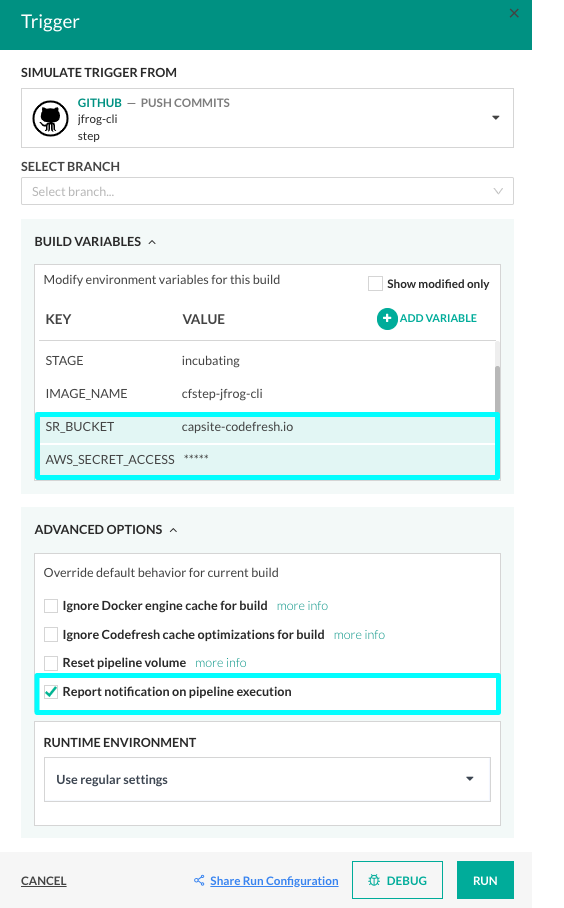
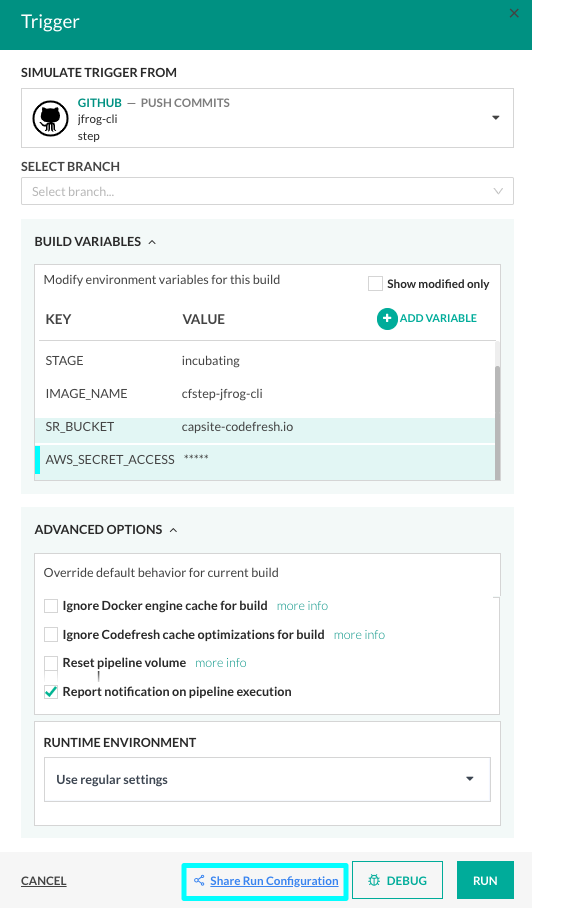
January 2024 release notes (#908)
* Create 2024-01-30-jan-release-notes.md

* Update Jan release notes

Added content for features and edited bug descriptions

* Update 2024-01-30-jan-release-notes.md

* Update share-run-configuration.png

* Update 2024-01-30-jan-release-notes.md

* Add typed step image

Edited content and added image for typed step warning

* Renamed release notes

Changed to earlier date for review in staging

* Update 2024-01-28-jan-release-notes.md

* Update 2024-01-28-jan-release-notes.md

* Add restart for failed steps

* Update 2024-01-28-jan-release-notes.md

* Update release notes

Add tags and sync timeout

* Add empty variables description

* Update release notes

Fixed image size and updated bug fix descriptions

* Update 2024-01-28-jan-release-notes.md

* Update 2024-01-28-jan-release-notes.md

* Update 2024-01-28-jan-release-notes.md

* Update 2024-01-28-jan-release-notes.md

Fixed empty variables enitites and removed scenarios!

* Minor edits

* Fixes

diff --git a/_posts/2024-01-28-jan-release-notes.md b/_posts/2024-01-28-jan-release-notes.md
@@ -1,0 +1,173 @@
+---
+title: "Release Notes: January 2024"
+description: "Release Notes for Codefresh Pipelines and GitOps"
+---
+
+## Features & enhancements
+
+### Pipelines: Empty variables 
+We are happy to announce a highly-requested feature: the ability to use _empty variables_ in Codefresh pipelines. Now, you can add variables without any values to any entity in Codefresh, whether it's a project, pipeline, or trigger. The enhancement unlocks a myriad of possibilities that were previously unavailable. 
+
+{% include 
+	image.html 
+	lightbox="true" 
+	file="/images/whats-new/jan24/rel-notes-jan-24-empty-variables.png" 
+	url="/images/whats-new/jan24/rel-notes-jan-24-empty-variables.png" 
+	alt="Empty variables in a Codefresh project" 
+	caption="Empty variables in a Codefresh project"
+  max-width="60%" 
+%}
+
+
+Remember that encryption is not supported for empty variables. The priority for variable overrides remains unchanged. 
+
+For details, see [User-defined variables in pipelines]({{site.baseurl}}/docs/pipelines/variables/#user-defined-variables).
+
+### Pipelines: Share build run settings
+Our newest enhancement to pipeline builds is designed to increase collaboration and productivity! How? Instead of redefining build settings manually, you can effortlessly share pipeline build settings with colleagues who have access to the same account.
+
+**How does it work?**  
+By sharing build settings, you enable colleagues to pre-populate build configurations without the need for redundant manual input. This feature is useful for various scenarios, whether it's for testing automation integration with third-party tools or triggering pipelines in specific situations.
+
+**Customizing build settings**  
+You can override any existing setting - simulate a different trigger, select a different branch, modify existing or add new build variables, and even modify the build behavior.
+
+With a click of the **Share build settings** button, Codefresh generates a unique URL. The URL includes modified and new settings as query parameters. Encrypted variables are excluded to ensure data protection. 
+
+   {% include 
+	image.html 
+	lightbox="true" 
+	file="/images/whats-new/jan24/rel-notes-jan-24-share-run-configuration.png" 
+	url="/images/whats-new/jan24/rel-notes-jan-24-share-run-configuration.png" 
+	alt="Share build settings" 
+	caption="Share build settings"
+  max-width="40%" 
+%}
+
+For details, see [Share build run settings]({{site.baseurl}}/docs/pipelines/run-pipeline/#share-build-run-settings).
+
+### Pipelines: Restart from failed step 
+At Codefresh, we highly value your feedback and are committed to continually enhancing your experience. In response to your feedback, we introduced the ability to configure the default restart behavior for failed steps in a pipeline at the account level. 
+
+   {% include 
+	image.html 
+	lightbox="true" 
+	file="/images/whats-new/jan24/rel-notes-jan-24-restart-failed-step.png" 
+	url="/images/whats-new/jan24/rel-notes-jan-24-restart-failed-step.png" 
+	alt="Restart from failed step in Pipeline Settings" 
+	caption="Restart from failed step in Pipeline Settings"
+  max-width="50%" 
+%}
+
+When enabled (the default), the user can restart the pipeline directly from the failed step. Otherwise, users can only restart the pipeline from the beginning.  
+By default, individual pipelines are configured to inherit the account setting.  
+Note that this does not impact existing pipelines.
+
+Being able to configure the restart behavior for failed steps centrally simplifies management and ensures consistency across pipelines, without the need for individual adjustments.   
+Imagine a scenario where you’re onboarding a large team of developers. You can disable failed-step restart for the account, and have the pipelines use the account-level setting, saving valuable time and promoting a consistent experience.  
+
+You can always change the behavior at any time based on evolving requirements. And users have the flexibility to override the account-level behavior for individual pipelines based on specific needs.
+
+For details, see [Restarting from failed steps]({{site.baseurl}}/docs/pipelines/configuration/pipeline-settings/#restarting-from-failed-steps).
+
+### Pipelines: Add tags during pipeline creation
+With this update, you can effortlessly add tags when you create a pipeline, further streamlining the pipeline creation process. Add tags as you usually do, and they are instantly available in both the General Settings and the Permissions panel.
+
+   {% include 
+	image.html 
+	lightbox="true" 
+	file="/images/whats-new/jan24/rel-notes-jan-24-tags-in-create-pipeline.png" 
+	url="/images/whats-new/jan24/rel-notes-jan-24-tags-in-create-pipeline.png" 
+	alt="Add tags when creating pipeline" 
+	caption="Add tags when creating pipeline"
+  max-width="40%" 
+%}
+
+
+### Pipelines: Explicit versions for typed steps
+As you're aware, Codefresh is continually enhancing our typed step library in the Marketplace.
+
+When typed steps in pipelines lack a specified version, Codefresh automatically associates them with the latest version of the step. To avoid potential issues with breaking changes in typed steps, we now provide a warning if there are steps in your pipelines without an explicit version number.
+
+{% include 
+	image.html 
+	lightbox="true" 
+	file="/images/whats-new/jan24/rel-notes-jan-24-typed-step-warning.png" 
+	url="/images/whats-new/jan24/rel-notes-jan-24-typed-step-warning.png" 
+	alt="Warning for typed steps without version numbers" 
+	caption="Warning for typed steps without version numbers"
+  max-width="60%" 
+%}
+
+For details, see [Versioning for typed steps]({{site.baseurl}}/docs/pipelines/steps/#versioning-for-typed-steps).
+
+
+
+### GitOps: Tailored sync timeouts for Argo CD applications
+
+Tailor the timeout thresholds for sync operations for different applications, and receive instant alerts when the sync duration exceeds the threshold defined.  
+Instead of waiting indefinitely for syncs to complete and then navigating through the GitOps Apps dashboard, Codefresh provides you with timely warnings to proactively investigate and resolve sync issues.
+
+Just include an annotation in the application's YAML, and either retain the default timeout of 30 minutes (also Argo CD's default for sync operations), or change it as needed.  
+Codefresh will display a warning in the **Warnings/Errors** panel for the app when the sync operation exceeds the timeout.
+
+   {% include 
+	image.html 
+	lightbox="true" 
+	file="/images/whats-new/jan24/rel-notes-jan-24-sync-timeout.png" 
+	url="/images/whats-new/jan24/rel-notes-jan-24-sync-timeout.png" 
+	alt="Sync timeout warning for Argo CD applications" 
+	caption="Sync timeout warning for Argo CD applications"
+  max-width="70%" 
+%}
+
+For details, see [Configure sync-timeout for Argo CD applications]({{site.baseurl}}/docs/deployments/gitops/manage-application/#configure-sync-timeout-for-argo-cd-applications).
+
+### GitOps: View/download logs for GitOps Runtime components
+We are glad to announce that you can now view and download logs for individual GitOps Runtime components!
+Previously available for legacy CLI Runtimes, this functionality is now back for Helm GitOps Runtimes, with online viewing in our smart terminal and offline downloads as you need.
+
+As a reminder, here's where you can find the **View logs** option:
+
+   {% include 
+	image.html 
+	lightbox="true" 
+	file="/images/whats-new/jan24/rel-notes-jan-24-runtime-component-log.png" 
+	url="/images/whats-new/jan24/rel-notes-jan-24-runtime-component-log.png" 
+	alt="View logs for GitOps Runtime components" 
+	caption="View logs for GitOps Runtime components"
+  max-width="70%" 
+%}
+
+For details, see [View/download logs for GitOps Runtime components]({{site.baseurl}}/docs/installation/gitops/monitor-manage-runtimes/#viewdownload-logs-for-runtime-components).
+
+### GitOps: Argo Events upgrade
+We've recently upgraded Argo Events to its latest version, v1.9.0, ensuring you can leverage all enhancements. For detailed information about the changes in this version, please refer to the [Argo documentation](https://github.com/argoproj/argo-events/releases).
+
+Please be aware that this upgrade may introduce a potential breaking change for existing event sources that have defined `githubBaseUrl` without defining `githubUploadURL` which is required. In such cases, event sources will fail to sync, and the Git Source application will return a `..githubUploadURL is required when githubBaseURL is set` error.
+
+To address this, you'll need to edit the event source YAMLs and add `githubUploadURL` where required.
+ 
+
+## Bug fixes
+
+<br>
+
+**Pipelines**  
+* For Bitbucket Cloud, `codefresh-report-image` step fails with errors to get Pull Requests (PRs) and branches. 
+* Builds for Gerrit in Codefresh are triggered twice because of webhook data delivery request timeouts or connection issues.
+* Replaced misleading warning message "The security token included in the request is invalid" for successful builds. 
+
+
+<br>
+
+**GitOps**  
+
+* Codefresh UI unresponsive when clicking Warnings/Errors button in the **GitOps Apps** dashboard.
+* `Failed to create binary image error` from Image reporter for images exceeding 2GB.
+* Audit log missing manual actions executed in Rollouts Player.
+* Delay for new Argo CD applications to appear in Codefresh GitOps Apps dashboard. 
+* For GitLab Actions, `codefresh-image-reporter` log displays actual values of encrypted secrets.
+* Codefresh UI not in sync with native Argo CD UI. 
+
+
